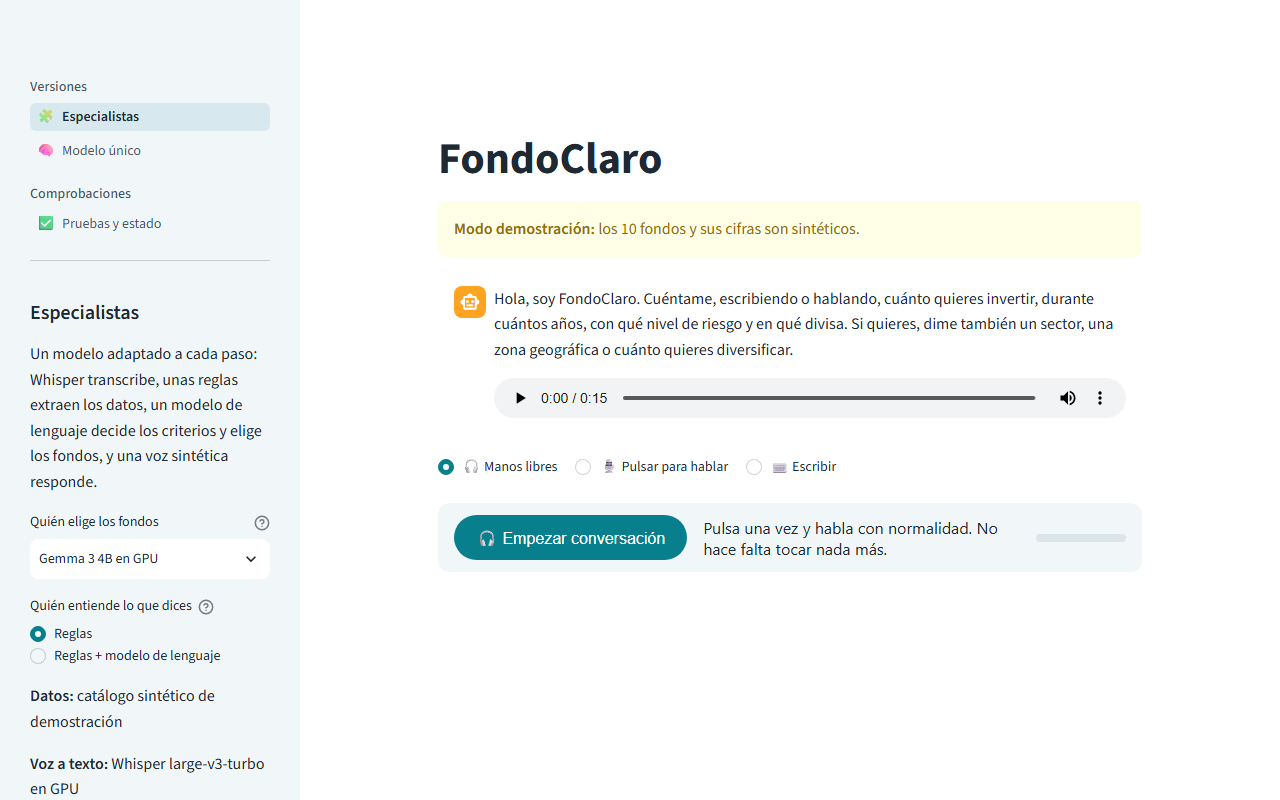
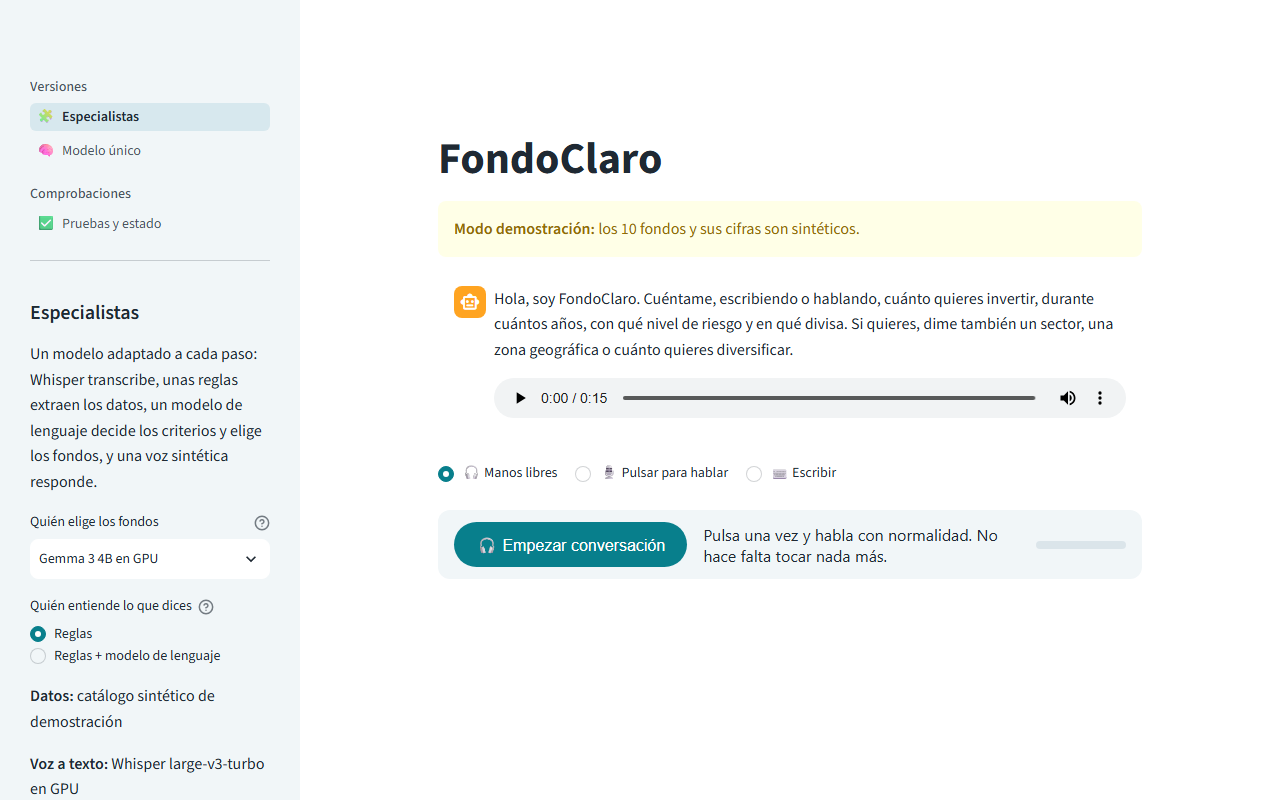
README revisado contra el código; la voz explicada en los diagramas; capturas nuevas
- Cifras de disco y memoria medidas, latencias, histórico y comparación puestos al día.
- Los dos diagramas muestran quién redacta lo que se dice y qué modelo lo convierte en voz.
- Nueva sección «Cómo se crea la voz».
- Resumen hablado: «uno mixto, dos de renta fija» en lugar de «1 mixtos».

Changed region(s): [[0.3438, 0.5625, 0.7812, 0.7188], [0.4688, 0.5625, 0.6562, 0.5938]]

diff --git a/src/report.py b/src/report.py
@@ -118,8 +118,11 @@ def brief_summary(proposal: Proposal, preferences: Preferences, notes: list[str]
         if kind:
             kinds[kind] = kinds.get(kind, 0) + 1
     if sum(kinds.values()) >= max(2, count - 1):      # only when the documents describe most of them
-        mix = [f"{number} {kind}" for kind, number in sorted(kinds.items(), key=lambda pair: -pair[1])]
-        parts.append("Son " + (", ".join(mix[:-1]) + " y " + mix[-1] if len(mix) > 1 else mix[0]) + ".")
+        words = ("", "uno", "dos", "tres", "cuatro", "cinco", "seis", "siete")
+        one = {"mixtos": "mixto", "monetarios": "monetario"}      # «uno mixto», «dos mixtos»
+        mix = [f"{words[number]} {one.get(kind, kind) if number == 1 else kind}"
+               for kind, number in sorted(kinds.items(), key=lambda pair: -pair[1])]
+        parts.append("De ellos, " + (", ".join(mix[:-1]) + " y " + mix[-1] if len(mix) > 1 else mix[0]) + ".")
     if count > 1:
         parts.append(f"El dinero queda repartido y ningún fondo pesa más del {_round(max(float(w) for w in weights))} por ciento.")
 

diff --git a/README.md b/README.md
@@ -48,10 +48,10 @@ flowchart LR
 | Transcribir un turno | 0,1 s en GPU (Whisper large-v3-turbo); alrededor de 1 s en CPU (Whisper small) |
 | Entender y preguntar (reglas) | menos de 1 s, más 1–2 s de voz |
 | Decidir criterios (Gemma 3 4B) | unos 10 s |
-| Filtrar el catálogo, búsqueda semántica e histórico diario | 2–3 s |
+| Filtrar el catálogo, búsqueda semántica e histórico diario de hasta 2.000 candidatos | 4–6 s |
 | Elegir y repartir (Gemma 3 4B) | unos 8 s |
 | Informe y voz del resumen | 3–5 s |
-| **Propuesta completa, hecha de una vez** | **25–35 s** |
+| **Propuesta completa, hecha de una vez** | **20–35 s** |
 | **Propuesta tras conversar por voz** (lo adelantado en segundo plano) | **unos 11 s** |
 
 Una conversación de tres turnos por voz tarda en total unos 80 s. En cuanto se conocen plazo, riesgo y divisa, un hilo en segundo plano decide los criterios, filtra el catálogo y lee el histórico mientras la página hace las preguntas de asesor; cuando el cliente contesta solo queda elegir. Si responde de inmediato (por escrito), la espera vuelve a ser de unos 20 s. Sin GPU el modelo es más pequeño y ve menos candidatos, a costa de calidad.
@@ -66,21 +66,21 @@ Una conversación de tres turnos por voz tarda en total unos 80 s. En cuanto se 
 | --- | --- | --- |
 | Sistema | Windows 10 u 11 de 64 bits | El mismo |
 | Python | 3.11, con el lanzador `py` (viene con el instalador de python.org) | El mismo |
-| Procesador y memoria | Cualquier CPU reciente; 8 GB de RAM | 16 GB de RAM |
+| Procesador y memoria (orientativo, no medido) | Cualquier CPU reciente; 8 GB de RAM | 16 GB de RAM |
 | Tarjeta gráfica | No hace falta | NVIDIA con 12 GB de memoria o más y controlador reciente (se instala PyTorch para CUDA 12.8) |
-| Disco | 3 GB (entorno y 1,4 GB de modelos) | 24 GB más (PyTorch con CUDA y 19 GB de modelos) |
-| Internet | Para instalar; después solo para la voz neuronal | Para instalar |
+| Disco | 2 GB (entorno 0,7 GB y modelos 1,3 GB) | unos 26 GB más (PyTorch con CUDA, 5 GB, y 21 GB de modelos) |
+| Internet | Para instalar y para la primera vez que se procesan los folletos (descarga el modelo de embeddings); después solo para la voz neuronal | Para instalar |
 | Navegador | Chrome o Edge recientes, con permiso de micrófono | El mismo |
 | Datos | `catalogo_fondos.md` y, opcionalmente, la carpeta `folletos/` y `fondos_diarios.parquet` (no están en el repositorio); sin catálogo se usan 10 fondos de ejemplo | Los mismos |
 
-Con la instalación básica funciona toda la conversación por voz, el informe y el audio; los fondos los elige Gemma 3 1B en CPU entre 10 candidatos. La parte 2 añade el modelo que decide los criterios y elige entre 150 candidatos (Gemma 3 4B) y la página «Modelo único» (Gemma 3n).
+Con la instalación básica funciona toda la conversación por voz, el informe y el audio; la voz se transcribe con Whisper `small` y los fondos los elige Gemma 3 1B en CPU entre 10 líneas, sin el paso de criterios. La parte 2 añade Whisper `large-v3-turbo` en GPU, el modelo que decide los criterios y elige entre 150 líneas (Gemma 3 4B) y la página «Modelo único» (Gemma 3n).
 
 ## Arranque tras clonar (Windows)
 
-1. Copia `catalogo_fondos.md` y, si la tienes, la carpeta `folletos/` (ninguno está en el repositorio) a la carpeta del proyecto. Sin el catálogo se usan 10 fondos sintéticos de ejemplo.
-2. Doble clic en **`instalar.bat`**. Crea el entorno, instala las dependencias, descarga los modelos básicos (1,4 GB), importa el catálogo y procesa los folletos si los encuentra. Funciona en cualquier equipo, sin GPU.
+1. Copia a la carpeta del proyecto `catalogo_fondos.md` y, si los tienes, la carpeta `folletos/` y `fondos_diarios.parquet` (ninguno está en el repositorio). También se encuentran solos si están en una carpeta `datos` junto al proyecto. Sin el catálogo se usan 10 fondos sintéticos de ejemplo.
+2. Doble clic en **`instalar.bat`**. Crea el entorno, instala las dependencias, descarga los modelos básicos (1,3 GB), importa el catálogo y procesa los folletos si los encuentra (la primera vez, unos minutos más para el índice de búsqueda semántica). Funciona en cualquier equipo, sin GPU.
 3. Doble clic en **`iniciar.bat`**. Arranca la aplicación y abre `index.html`, la puerta de entrada con los enlaces.
-4. Opcional, solo con una NVIDIA de 12 GB o más: doble clic en **`instalar_parte2_opcional.bat`**. Instala PyTorch con CUDA y descarga 19 GB de modelos. Añade el filtro con Gemma 3 4B y la versión de modelo único.
+4. Opcional, solo con una NVIDIA de 12 GB o más: doble clic en **`instalar_parte2_opcional.bat`**. Instala PyTorch con CUDA y descarga 21 GB de modelos. Añade Whisper `large-v3-turbo`, el filtro con Gemma 3 4B y la versión de modelo único.
 
 La aplicación queda en `http://localhost:8501`. Clona el proyecto en una ruta corta (por ejemplo `C:\proyectos\`): en rutas muy largas la instalación falla por el límite de Windows.
 
@@ -150,11 +150,18 @@ flowchart LR
         E1 --> E2 --> E3 --> E4 --> E5 --> E6
     end
 
+    subgraph VOZ[De texto a voz]
+        direction TB
+        T1[Redactar lo que se va a decir<br/>plantillas con las cifras de los datos<br/>sin modelo]
+        T2[Texto a voz<br/>es-ES-ElviraNeural con edge-tts, en línea<br/>respaldo: Piper es_ES-davefx-medium, local en CPU<br/>mejor local: Kokoro o XTTS-v2]
+        T1 --> T2
+    end
+
     subgraph OUT[Salidas]
         direction TB
-        O1[🔊 Preguntas y resumen hablados<br/>Voz neuronal en línea · respaldo Piper local<br/>mejor local: Kokoro o XTTS-v2]
+        O1[🔊 Audio WAV que suena solo<br/>en el navegador]
         O2[📄 Informe PDF con gráficos<br/>ReportLab, sin modelo]
-        O3[🔊 Audio resumen descargable<br/>la misma voz]
+        O3[🔊 Audio resumen descargable]
         O4[🖥 Tabla, perfil editable y avisos en pantalla<br/>sin modelo]
     end
 
@@ -165,10 +172,11 @@ flowchart LR
     I5 -- leídos con reglas --> E4
     I5 -- riesgo oficial, costes, mínimos --> E5
     I6 --> E5
-    E2 -- falta un dato --> O1
-    E6 --> O1
+    E2 -- falta un dato: pregunta --> T1
+    E6 -- fondos y pesos --> T1
+    T2 --> O1
+    T2 --> O3
     E6 --> O2
-    E6 --> O3
     E6 --> O4
     I6 -- evolución real y escenarios --> O2
 ```
@@ -197,9 +205,16 @@ flowchart LR
         U3 -- una línea por grupo --> U1
     end
 
+    subgraph VOZ2[De texto a voz · Gemma 3n no genera voz]
+        direction TB
+        V1[Redactar lo que se va a decir<br/>plantillas con las cifras de los datos<br/>las preguntas de asesor las escribe Gemma 3n]
+        V2[Texto a voz<br/>es-ES-ElviraNeural con edge-tts, en línea<br/>respaldo: Piper es_ES-davefx-medium, local en CPU]
+        V1 --> V2
+    end
+
     subgraph OUT2[Salidas]
         direction TB
-        P1[🔊 Preguntas y resumen hablados<br/>Voz neuronal en línea · respaldo Piper local<br/>Gemma 3n no genera voz]
+        P1[🔊 Audio WAV que suena solo<br/>en el navegador]
         P2[📄 Informe PDF con gráficos<br/>ReportLab, sin modelo]
         P3[🔊 Audio resumen descargable]
         P4[🖥 Tabla, perfil editable y avisos en pantalla]
@@ -213,12 +228,21 @@ flowchart LR
     J6 --> U2
     J6 --> U3
     J7 --> U3
-    U1 --> P1
+    U1 -- preguntas, fondos y pesos --> V1
+    V2 --> P1
+    V2 --> P3
     U1 --> P2
-    U1 --> P3
     U1 --> P4
     J7 -- evolución real y escenarios --> P2
 ```
+
+### Cómo se crea la voz
+
+1. **El texto lo escribe el código, no un modelo.** Las preguntas («¿durante cuántos años…?») y el resumen final son plantillas que se rellenan con las cifras de los datos: número de fondos, rentabilidad y caída de la cartera, lo que ganó un fondo comparable. Así lo que se oye no puede contener una cifra inventada. La única excepción es la versión de modelo único, donde Gemma 3n redacta las preguntas de asesor.
+2. **Un modelo de texto a voz lo convierte en audio.** Por defecto, la voz neuronal `es-ES-ElviraNeural`, a la que se llama por internet con el paquete `edge-tts` (servicio de voz de Microsoft, no oficial): se le envía el texto y devuelve un MP3, que se convierte a WAV. Si no hay conexión, el paquete no está o se pone `VOICE=local`, lo hace Piper con la voz `es_ES-davefx-medium`, un modelo pequeño que corre en la CPU del equipo.
+3. **El navegador lo reproduce.** En manos libres suena solo y, al acabar, el micrófono vuelve a escuchar. El resumen final se puede además descargar.
+
+La frase que el modelo de lenguaje escribe sobre la cartera aparece en el PDF, no se lee en voz alta. El código está en `src/tts.py`.
 
 Las dos versiones comparten datos, filtros, validación, voz de respuesta e informe. Lo que cambia es quién oye, entiende, pregunta y decide: cuatro piezas especializadas en una, un solo modelo en la otra.
 
@@ -231,31 +255,34 @@ flowchart LR
     E --> F{¿Falta plazo,<br/>riesgo o divisa?}
     F -- sí --> Q[Pregunta hablada] --> U
     F -- no --> A[Preguntas de asesor:<br/>objetivo, experiencia, caídas]
-    A --> C[El modelo decide<br/>los criterios]
+    F -- no, en segundo plano --> C[El modelo decide<br/>los criterios]
     C --> R[El código los aplica<br/>a todo el catálogo]
     D[(92.257 fondos)] --> R
     K[(Folletos: riesgo oficial,<br/>costes, mínimos)] --> R
-    R --> L[El modelo elige y reparte<br/>entre 150 candidatos]
-    L --> P[Informe PDF]
-    L --> V[Audio resumen]
+    R --> G[Histórico diario: caídas<br/>y grupos de fondos parecidos]
+    H[(Precios diarios)] --> G
+    A --> L[El modelo elige y reparte<br/>una línea por grupo]
+    G --> L
+    L --> T[Resumen hablado breve<br/>y detalle si se pide]
+    L --> P[Informe PDF con gráficos]
 ```
 
 1. **Conversación.** Son obligatorios el plazo (de 1 a 30 años), el riesgo y la divisa. Los fondos se comparan con las cifras del catálogo a 1, 3 o 5 años, la ventana más cercana al plazo; el comportamiento de la cartera se calcula con el histórico diario de todo el plazo que exista. Lo que falte se pregunta por voz. Importe, zona, sector, clase de activo y grado de diversificación son opcionales.
 2. **Preguntas de asesor.** Una vez, y se pueden saltar: objetivo (crecer, conservar, rentas), experiencia y reacción ante una caída del 20 %. Si las respuestas no sostienen el riesgo declarado, se baja un nivel y se explica.
-3. **El modelo decide los criterios.** A partir de la conversación transcrita fija cuánto pesan el ajuste al riesgo, el Sharpe y la rentabilidad, la volatilidad objetivo, una rentabilidad mínima y, si el cliente pidió un tema («oro», «tecnología»), las palabras que deben aparecer en el nombre del fondo.
+3. **El modelo decide los criterios.** A partir de la conversación transcrita fija cuánto pesan el ajuste al riesgo, el Sharpe y la rentabilidad, la volatilidad objetivo, una rentabilidad mínima y, si el cliente pidió un tema («oro», «tecnología»), las palabras que deben aparecer en el nombre del fondo. Las palabras genéricas («fondo», «crecimiento», «diversificado») se descartan, y los fondos cuyo folleto es afín al tema pasan ese filtro aunque no lleven la palabra en el nombre.
 4. **El código los aplica a todo el catálogo.** Siempre se descartan los fondos de otra divisa, sin datos recientes o por encima de la volatilidad máxima del perfil (bajo 10 %, medio 20 %, alto 35 %): el modelo no puede subir el riesgo. Una ficha verificada que contradiga la preferencia no se sustituye por una coincidencia en el nombre. Se agrupan las posibles clases de participación por nombre, conservando números de índices y términos de cobertura; esta agrupación es aproximada.
-5. **El modelo elige y reparte.** Tras los filtros quedan hasta 2.000 candidatos. Con el histórico diario se agrupan los que se mueven muy parecido (correlación semanal superior a 0,9) y el modelo lee una línea por grupo, la del mejor fondo: 150 líneas representan a muchos más fondos (1.600 en una prueba sin tema concreto). Si la conversación da tiempo, el modelo criba además los grupos siguientes por lotes de 100 y sus elegidos entran en la lista final. Devuelve qué fondos y con qué peso. Se respeta un número concreto solicitado de 1 a 7 fondos; «un solo fondo» recibe el 100 %. Si no se indica, se eligen entre 2 y 7 según la diversificación. Sin el histórico diario, el modelo lee los 150 mejores candidatos.
-6. **Validación.** Solo se aceptan fondos de la lista y pesos numéricos finitos. Tanto el modelo como las reglas respetan un mínimo del 5 % y un máximo del 60 % por fondo (80 % si hay dos; 100 % si solo hay uno). Si el modelo falla o su reparto no es válido, deciden las reglas: inversa de la volatilidad, o más peso a los fondos que mejor encajan si el objetivo es crecer.
-7. **Segunda mirada con el histórico diario.** Si dos fondos elegidos se mueven casi igual (correlación semanal superior a 0,95), el peor colocado se sustituye por el siguiente candidato. Cuando deciden las reglas, el reparto pasa a ser por paridad de riesgo con las correlaciones reales.
+5. **El modelo elige y reparte.** Tras los filtros quedan hasta 2.000 candidatos. Con el histórico diario se agrupan los que se mueven muy parecido (correlación semanal superior a 0,9) y el modelo lee una línea por grupo, la del mejor fondo, con su caída máxima; las caídas mayores de lo que tolera el perfil (10 %, 25 % y 45 %; un 30 % menos si el cliente dijo que vendería) restan puntuación: 150 líneas representan a muchos más fondos (1.600 en una prueba sin tema concreto). Si la conversación da tiempo, el modelo criba además los grupos siguientes por lotes de 100 y sus elegidos entran en la lista final. Devuelve qué fondos y con qué peso. Se respeta un número concreto solicitado de 1 a 7 fondos; «un solo fondo» recibe el 100 %. Si no se indica, se eligen entre 2 y 7 según la diversificación. Sin el histórico diario, el modelo lee los 150 mejores candidatos.
+6. **Validación.** Solo se aceptan fondos de la lista y pesos numéricos finitos. Tanto el modelo como las reglas respetan un mínimo del 5 % y un máximo del 60 % por fondo (80 % si hay dos; 100 % si solo hay uno). Si el modelo falla o su reparto no es válido, deciden las reglas, que además no eligen dos fondos del mismo grupo. Sin histórico diario reparten por inversa de la volatilidad, o dan más peso a los fondos que mejor encajan si el objetivo es crecer.
+7. **Segunda mirada con el histórico diario.** Si dos fondos elegidos se mueven casi igual (correlación semanal superior a 0,95), el peor colocado se sustituye por el siguiente candidato. Cuando deciden las reglas y hay histórico, el reparto es por paridad de riesgo con las correlaciones reales.
 8. **Entrega.** La página resume la cartera de viva voz en menos de un minuto, en lenguaje llano y sin nombres ni pesos: cuántos fondos, de qué tipo, cuánto habría ganado y cuánto llegó a caer en conjunto. Lo pone en contexto: dice cuánto ganó un fondo comparable típico y, si los elegidos están entre los que mejor lo hicieron, avisa de que no hay que contar con que se repita. Después pregunta si se quiere el detalle y, solo entonces, lee fondo a fondo. En pantalla y en el PDF están siempre la conversación, el perfil, los criterios, la cartera y el porqué de cada fondo, con el porcentaje de fondos comparables al que superó; la evolución real que habría tenido la cartera, con su volatilidad y su caída máxima; y, en otro gráfico, tres escenarios para el plazo pedido: su peor año, un fondo comparable típico y su mejor año. Los importes se asignan a céntimos conservando el total y los límites de concentración.
 
 Se reconocen importes en EUR, USD, GBP y CHF, con cifras o expresados en español («diez mil euros», «10.000 dólares», «ciento veinte euros con cincuenta céntimos»). Los importes negativos, nulos o no interpretables que se detecten requieren aclaración; no se transforman en cantidades positivas. Cuando se pregunta por el importe, se puede contestar solo con la cantidad. El importe sigue siendo opcional si no se ha indicado.
 
-Los pasos 3 y 5 con 150 candidatos necesitan el filtro en GPU (o Claude). Con Gemma 3 1B en CPU no hay paso 3 y el modelo elige entre 10 candidatos.
+El paso 3 y las 150 líneas del paso 5 necesitan el filtro en GPU (o Claude). Con Gemma 3 1B en CPU no hay paso 3 y el modelo elige entre 10 líneas.
 
 ### Límites que conviene conocer
 
-- **Las cifras nunca salen del modelo.** Rentabilidades, volatilidades y motivos por fondo vienen del catálogo.
+- **Las cifras nunca salen del modelo.** Rentabilidades, volatilidades y motivos por fondo vienen del catálogo, de los folletos y del histórico diario.
 - **El modelo no lee los 92.257 fondos uno a uno.** No caben en su contexto: decide los criterios, el código los aplica a todos y el modelo elige entre una línea por grupo de fondos parecidos. La página dice cuántos fondos ha tenido en cuenta. La criba por lotes solo ocurre si la conversación deja tiempo; en una charla de tres turnos no llega a empezar.
 - **Zona y sector solo están verificados donde hay folleto.** Para el resto, las preferencias se comprueban con el nombre del fondo y el informe lo marca como «exposición no verificada».
 - **La inversión mínima solo se conoce donde hay ficha** (unos 1.700 fondos); esos se descartan si el mínimo supera el importe. Para el resto, por debajo de 100.000 se prefiere, entre las clases de un mismo fondo, la que no parece institucional; el mínimo real hay que mirarlo en el folleto.
@@ -263,7 +290,7 @@ Los pasos 3 y 5 con 150 candidatos necesitan el filtro en GPU (o Claude). Con Ge
 - **El reparto no es una optimización de cartera completa.** Con el histórico diario se usan correlaciones para evitar duplicados y para la paridad de riesgo, pero no hay objetivo de rentabilidad esperada ni frontera eficiente.
 - **La selección mira al pasado.** El modelo tiende a elegir los fondos que más subieron: en una prueba con riesgo alto propuso cinco fondos que habían superado a más del 97 % de los 30.768 comparables, cuando la mediana de estos fue del +11,8 % en cinco años. El informe y el resumen lo dicen expresamente, pero la selección en sí no se ha corregido.
 - **Los escenarios son una ilustración, no una previsión.** Repetir todos los años el peor o el mejor es muy improbable. El escenario central usa lo que ganó un fondo comparable típico, no el año mediano de la cartera.
-- **Los plazos largos se comparan con cifras a 5 años.** El catálogo no trae métricas a 10; el histórico diario solo se lee para los fondos de la propuesta.
+- **Los plazos largos se comparan con cifras a 5 años.** El catálogo no trae rentabilidad, volatilidad ni Sharpe a 10 años. Del histórico diario salen las caídas, los grupos y el comportamiento de la cartera, no esas tres cifras.
 - **Los modelos locales no consultan internet.** Solo usan lo que se les pasa.
 - **En manos libres no se puede interrumpir a la página:** solo escucha cuando ha terminado de hablar.
 
@@ -289,33 +316,38 @@ Cómo se usa en la recomendación:
 
 La descarga sigue creciendo: el script solo lee los fondos nuevos o con documentos nuevos, e `iniciar.bat` lo ejecuta en cada arranque.
 
-**Búsqueda semántica.** Al procesar los folletos se calcula un vector del objetivo de cada fondo con un modelo de embeddings multilingüe pequeño, en CPU (unos 5 minutos la primera vez para 17.467 fondos; después solo los nuevos). Cuando el cliente pide un tema, se buscan los fondos cuyo objetivo se le parece aunque la palabra no esté en el nombre ni el folleto esté en español: «oro y metales preciosos» encuentra fondos de «gold». Esos fondos pasan el filtro temático y reciben un pequeño extra de puntuación.
+**Búsqueda semántica.** Al procesar los folletos se calcula un vector del objetivo de cada fondo con un modelo de embeddings multilingüe pequeño, en CPU (unos 5 minutos la primera vez para 17.467 fondos; después solo los nuevos). Cuando el cliente pide un tema, se buscan los fondos cuyo objetivo se le parece aunque la palabra no esté en el nombre ni el folleto esté en español: «oro y metales preciosos» encuentra fondos de «gold». Esos fondos pasan el filtro de palabras que fija el modelo y reciben un pequeño extra de puntuación. Los filtros fijos de zona, sector y clase de activo no cambian.
+
+Los folletos no se leen con un modelo de lenguaje ni con OCR: un documento escaneado o con una redacción distinta de la habitual se queda sin datos.
 
 ## Histórico diario de precios
 
-Si `fondos_diarios.parquet` (317 millones de filas, 5,3 GB, no incluido en el repositorio) está junto al proyecto o en `..\datos`, la app lee de él solo los fondos de cada propuesta, en menos de un segundo. Con eso sustituye fondos que son casi el mismo, reparte por paridad de riesgo cuando deciden las reglas y calcula la evolución real, la volatilidad conjunta, la caída máxima y los escenarios del informe. Sin el Parquet, el informe muestra la simulación ilustrativa.
+La app usa `fondos_diarios.parquet` (317 millones de filas, 5,3 GB, no incluido en el repositorio) si está en la carpeta del proyecto, en `data/private`, en `..\datos` o en la ruta de la variable `DAILY_PARQUET`. Solo lee los fondos que necesita:
+
+- **Antes de elegir:** los precios semanales de hasta 2.000 candidatos (3–5 s). De ahí salen la caída máxima de cada fondo, que cuenta en el ranking, y los grupos de fondos que se mueven muy parecido, que permiten al modelo leer una línea por grupo.
+- **Después de elegir:** sustituye fondos casi idénticos, reparte por paridad de riesgo cuando deciden las reglas y calcula la evolución real, la volatilidad conjunta, la caída máxima y los escenarios del informe.
+
+Sin el Parquet, el modelo lee los 150 mejores candidatos y el informe muestra la simulación ilustrativa.
 
 Los fondos que solo tienen folleto siguen sin poder puntuarse: el Parquet contiene los mismos fondos que el catálogo.
-
-Los textos no se leen con un modelo de lenguaje ni con OCR: un documento escaneado o con una redacción distinta de la habitual se queda sin datos.
 
 ## Comparación entre versiones
 
 | | Especialistas | Modelo único |
 | --- | --- | --- |
 | Voz a texto | Whisper `large-v3-turbo` (GPU) o `small` (CPU) | Gemma 3n E2B |
-| Entender la petición | Reglas en español | Gemma 3n E2B |
-| Qué preguntar | Preguntas fijas | Gemma 3n E2B las redacta |
+| Entender la petición | Reglas en español (Gemma 3 4B opcional) | Gemma 3n E2B |
+| Qué preguntar | Preguntas fijas | Fijas para los datos obligatorios; Gemma 3n redacta las de asesor |
 | Criterios, elección y reparto | Gemma 3 4B | Gemma 3n E2B |
 | Hablar | Voz neuronal en línea o Piper | La misma (Gemma 3n no genera voz) |
-| Memoria de GPU | 4 GB | 11 GB |
+| Memoria de GPU | unos 6 GB (Gemma 3 4B en 4 bits y Whisper) | 11 GB |
 
 Las dos comparten catálogo, filtros, validación, PDF y voz, así que la diferencia que se observa es la de los modelos. Cada respuesta muestra los segundos que ha tardado. En la GPU solo hay un modelo cargado a la vez: al cambiar de versión, la primera respuesta tarda más.
 
-**Primera comparación.** Es una sola conversación de tres turnos hablados, con audios generados por Piper y un micrófono simulado en el navegador; no es una evaluación.
+**Primera comparación.** Es una sola conversación de tres turnos hablados, con voz sintética y un micrófono simulado en el navegador; no es una evaluación.
 
 - **Especialistas:** transcribió y extrajo bien los datos y entregó la propuesta en el tercer turno. Las preguntas tardan 1–3 s; la propuesta, unos 11 s tras conversar por voz.
-- **Modelo único:** transcribió bien, pero no dedujo la divisa de «10.000 euros» y siguió preguntando, así que no llegó a la propuesta en tres turnos. Cada turno tarda unos 18 s. Sus preguntas suenan más naturales.
+- **Modelo único:** transcribió bien casi todo, pero no dedujo la divisa de «10.000 euros» (hubo que decírsela en un turno más) e inventó datos que nadie había dicho, como una zona «global» y «un solo fondo», con lo que acabó proponiendo un único fondo. Cada turno tarda entre 14 y 32 s. Sus preguntas suenan más naturales.
 
 ## Modelos candidatos por paso
 
@@ -371,6 +403,10 @@ src/money.py               Importes en español y reparto al céntimo
 data/demo_funds.csv        Catálogo sintético
 data/private/, models/     Catálogo real y modelos, ignorados por Git
 tests/                     Pruebas (python -m unittest discover -s tests)
+docs/                      Pitch (pitch.md y pitch_fondoclaro_v3.pptx) y capturas
+requirements.txt           Dependencias de la instalación básica
+requirements-gpu.txt       Dependencias de los modelos de GPU
+requirements-claude.txt    Solo si se activa Claude por API
 ```
 
 El dataset EODHD y sus derechos de uso no se incluyen en el repositorio; no lo publiques sin comprobar la licencia. Gemma se distribuye bajo los términos de uso de Google y Piper (`piper-tts`) bajo GPL-3.0.
